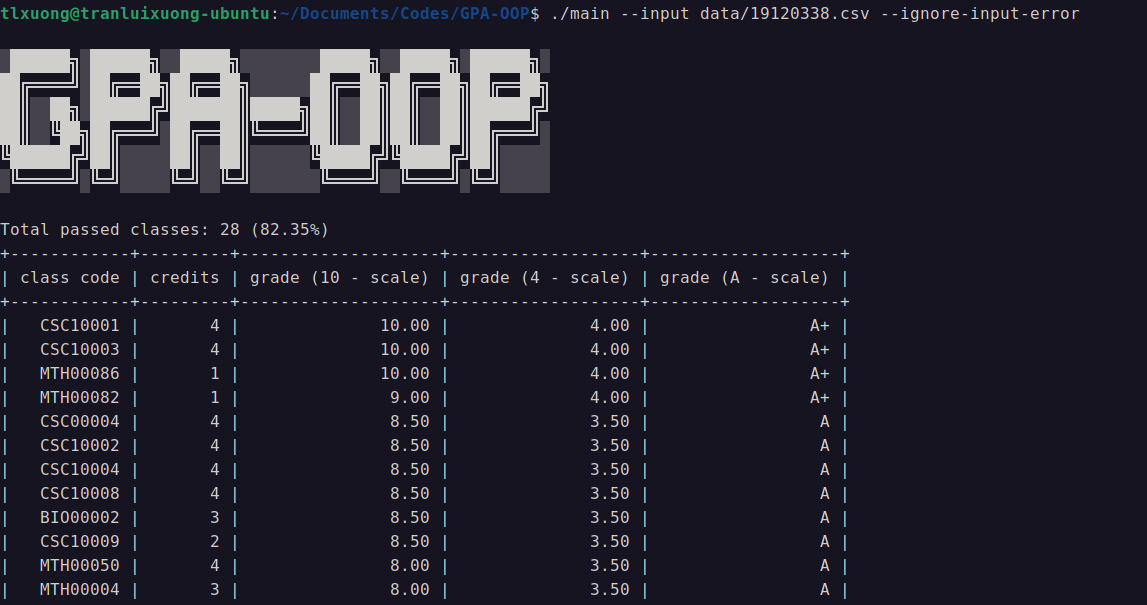
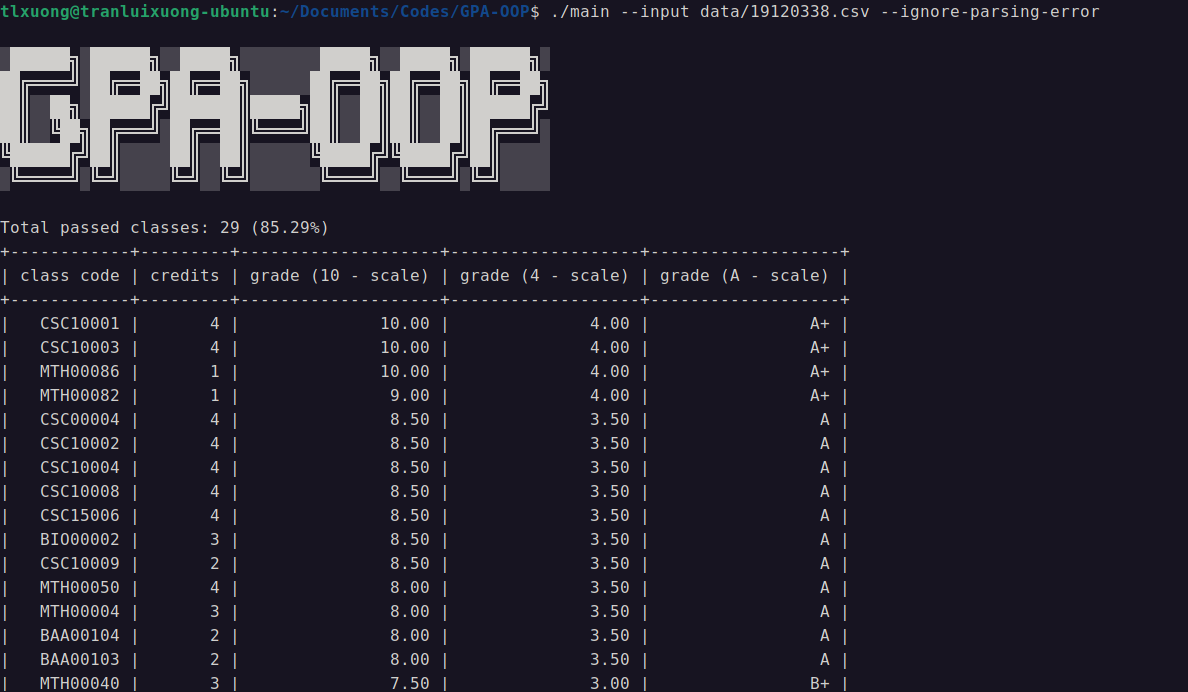
Update readme & screenshot

Changed region(s): [[0.0, 0.0595, 0.7323, 1.0], [0.0, 0.0, 0.9459, 0.0298], [0.6713, 0.5355, 0.7323, 1.0]]

diff --git a/readme.md b/readme.md
@@ -75,7 +75,7 @@ Given that the program has been compiled successfully to `<PROGRAM>.exe`, then:
     [--specific <SPECIFIC_COURSES.txt> /
      --ignore <IGNORED_COURSES.txt>] --csv
   ```
-- Ignore input errors
+- Ignore parsing errors
 
   With .csv files created by Microsoft Excel, sometimes there will be blank lines marked by two commas between data blocks:
   ```
@@ -85,12 +85,12 @@ Given that the program has been compiled successfully to `<PROGRAM>.exe`, then:
   ```
   And eventually this will cause an error message logging to the screen.
 
-  To ignore this: simply adding `--ignore-input-error` option:
+  To ignore this: simply adding `--ignore-parsing-error` option:
   ```shell
   ./<PROGRAM> --input <GRADE_FILE.csv>
   [--specific <SPECIFIC_COURSES.txt> /
   --ignore <IGNORED_COURSES.txt>] [ --csv ]
-  --ignore-input-error
+  --ignore-parsing-error
   ```
 
 ### 3. Shell scripts
